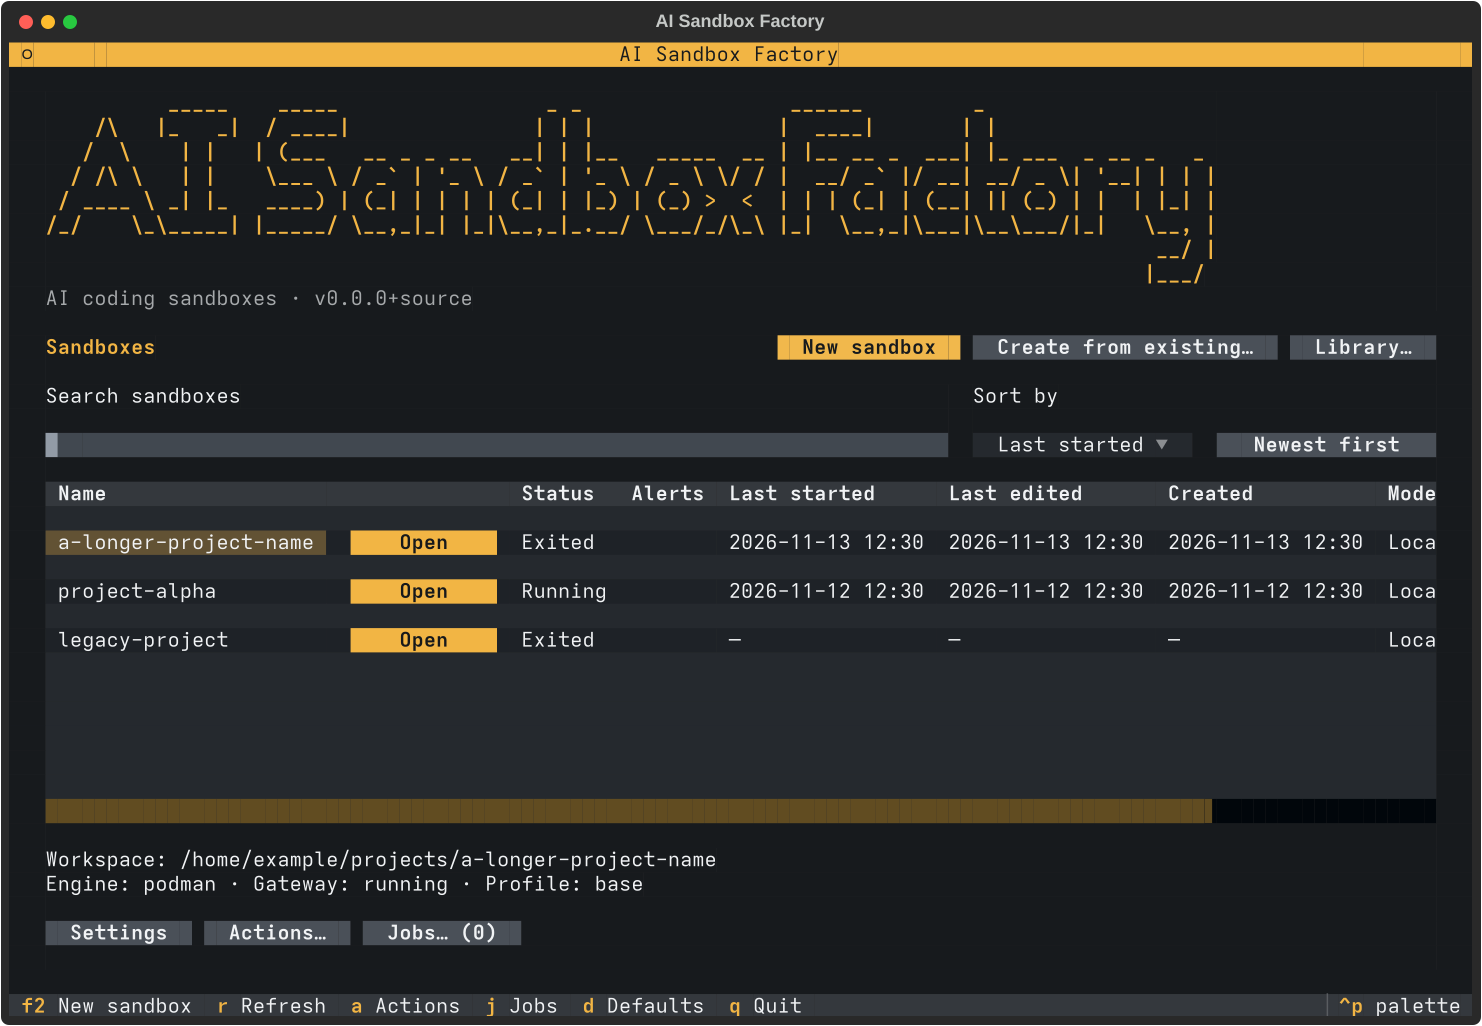
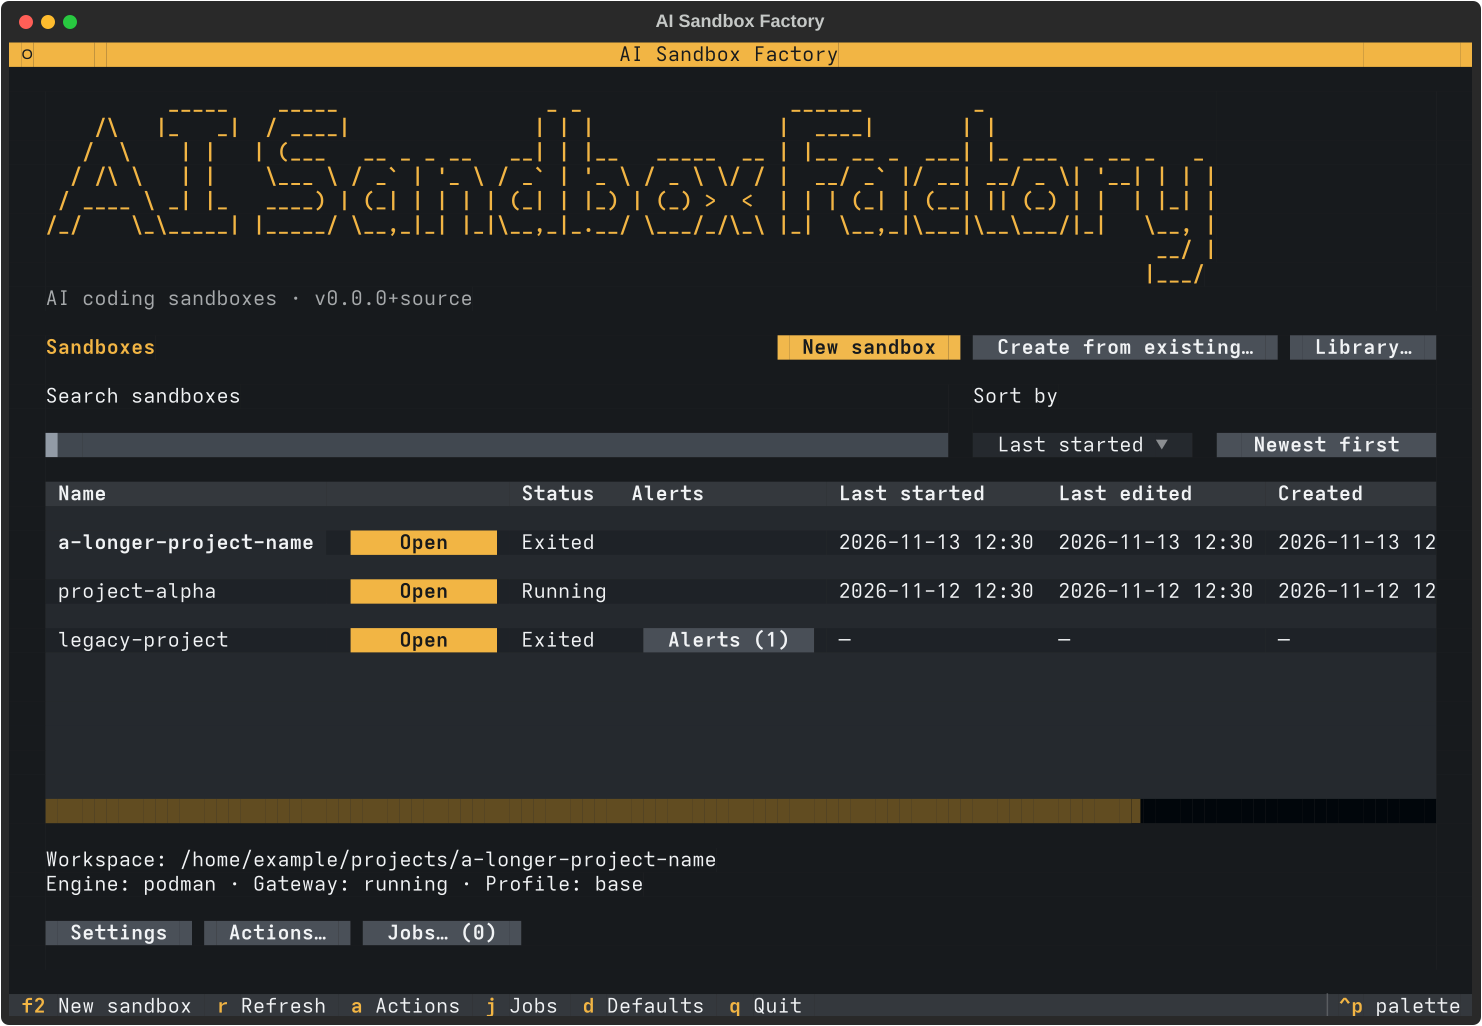
Distinguish dashboard row selection from actions

diff --git a/tests/render_dashboard.py b/tests/render_dashboard.py
@@ -1,27 +1,89 @@
-"""Render dashboard timestamps and sorting at all supported review sizes."""
-import asyncio,copy,os,sys,tempfile
+"""Render dashboard focus, hover, sorting and error states for visual review."""
+import argparse
+import asyncio
+import copy
+import os
 from pathlib import Path
+import sys
+import tempfile
 from unittest.mock import patch
-sys.path[:0]=[str(Path(__file__).resolve().parents[1]),str(Path(__file__).resolve().parent)]
-from ai_sandbox_factory.sandbox_tui import Cockpit,DEFAULT_SETTINGS
-from textual.widgets import Select,Input
+
+sys.path[:0] = [str(Path(__file__).resolve().parents[1]), str(Path(__file__).resolve().parent)]
+from ai_sandbox_factory.sandbox_jobs import Job
+from ai_sandbox_factory.sandbox_tui import Cockpit, DEFAULT_SETTINGS, SandboxTable
+from textual.widgets import Input, Select
 from test_tui import FakeService
-out=Path(sys.argv[1]);out.mkdir(parents=True,exist_ok=True)
-if '--mono' in sys.argv:os.environ['NO_COLOR']='1'
-else:os.environ.pop('NO_COLOR',None)
-os.environ['TEXTUAL_COLOR_SYSTEM']='truecolor'
-async def main(size):
- with tempfile.TemporaryDirectory() as temp,patch('ai_sandbox_factory.sandbox_tui.load_defaults',side_effect=lambda:copy.deepcopy(DEFAULT_SETTINGS)),patch('ai_sandbox_factory.updates.available_update',return_value=None):
-  records=[]
-  for n,name in enumerate(['project-alpha','a-longer-project-name','legacy-project']):
-   records.append(dict(name=name,profile='base',engine='podman',dev='running' if n==0 else 'exited',proxy='running',workspace='/home/example/projects/'+name,config={'network':'allowlist','local_model_ports':'8000'},activity={key:f'2026-11-{12+n}T12:30:00+00:00' if n<2 else None for key in ('created','edited','started')}))
-  app=Cockpit(Path(temp),FakeService(records))
-  async with app.run_test(size=size) as pilot:
-   await pilot.pause();await app.workers.wait_for_complete();await pilot.pause()
-   async def shot(name):
-    await pilot.pause();(out/f'{name}-{size[0]}x{size[1]}.svg').write_text(app.export_screenshot())
-   await shot('dashboard-dates')
-   app.query_one('#sort-field',Select).focus();await pilot.press('enter');await shot('dashboard-sort');await pilot.press('escape')
-   app.query_one('#search',Input).value='missing';await shot('dashboard-empty')
-   app.query_one('#search',Input).value='';app.query_one('#home-error').update('Container engine unavailable; showing saved sandboxes.');await shot('dashboard-error')
-for size in [(80,24),(120,40),(220,50)]:asyncio.run(main(size))
+
+
+async def render(out, size):
+    records = []
+    for index, name in enumerate(('project-alpha', 'a-longer-project-name', 'legacy-project')):
+        date = f'2026-11-{12 + index}T12:30:00+00:00' if index < 2 else None
+        records.append(dict(name=name, profile='base', engine='podman',
+                            dev='running' if index == 0 else 'exited', proxy='running',
+                            workspace='/home/example/projects/' + name,
+                            config={'network': 'allowlist', 'local_model_ports': '8000'},
+                            activity=dict.fromkeys(('created', 'edited', 'started'), date)))
+    records[-1]['ssh_key_state'] = 'locked'
+    with tempfile.TemporaryDirectory() as temp, \
+            patch('ai_sandbox_factory.sandbox_tui.load_defaults', side_effect=lambda: copy.deepcopy(DEFAULT_SETTINGS)), \
+            patch('ai_sandbox_factory.updates.available_update', return_value=None), \
+            patch('ai_sandbox_factory.updates.installed_version', return_value='0.0.0+source'):
+        app = Cockpit(Path(temp), FakeService(records))
+        async with app.run_test(size=size) as pilot:
+            await pilot.pause()
+            await app.workers.wait_for_complete()
+
+            async def shot(name):
+                await pilot.pause()
+                (out / f'dashboard-{name}-{size[0]}x{size[1]}.svg').write_text(app.export_screenshot())
+
+            await shot('dates')
+            table = app.query_one(SandboxTable)
+            table.focus()
+            await shot('name-focus')
+            await pilot.press('right')
+            await shot('open-focus')
+            table.move_cursor(row=table.get_row_index('legacy-project'), column=table.get_cell_coordinate(
+                'legacy-project', 'alerts').column)
+            await shot('alerts-focus')
+            table.move_cursor(row=0, column=0)
+            region = table._get_cell_region(table.get_cell_coordinate('project-alpha', 'name'))
+            await pilot.hover(table, offset=(region.x + 3, region.y))
+            await shot('name-hover')
+            await pilot.hover('#new')
+
+            with_job = Job('project-alpha', 'Update · project-alpha', 'Updating sandbox')
+            app.jobs.append(with_job)
+            app.poll_jobs()
+            job_cell = table.get_cell_coordinate('project-alpha', 'open')
+            table.move_cursor(row=job_cell.row, column=job_cell.column)
+            await shot('job-focus')
+            app.jobs.remove(with_job)
+            with_job.close()
+            app.poll_jobs()
+
+            app.query_one('#sort-field', Select).focus()
+            await pilot.press('enter')
+            await shot('sort')
+            await pilot.press('escape')
+            app.query_one('#search', Input).value = 'missing'
+            await shot('empty')
+            app.query_one('#search', Input).value = ''
+            app.query_one('#home-error').update('Container engine unavailable; showing saved sandboxes.')
+            await shot('error')
+
+
+if __name__ == '__main__':
+    parser = argparse.ArgumentParser(description=__doc__)
+    parser.add_argument('output', type=Path)
+    parser.add_argument('--mono', action='store_true')
+    args = parser.parse_args()
+    args.output.mkdir(parents=True, exist_ok=True)
+    if args.mono:
+        os.environ['NO_COLOR'] = '1'
+    else:
+        os.environ.pop('NO_COLOR', None)
+    os.environ['TEXTUAL_COLOR_SYSTEM'] = 'truecolor'
+    for dimensions in ((80, 24), (120, 40), (220, 50)):
+        asyncio.run(render(args.output, dimensions))

diff --git a/tests/test_tui.py b/tests/test_tui.py
@@ -2156,6 +2156,46 @@ class DashboardActivityTests(unittest.TestCase):
     tearDown = TUITests.tearDown
     ready = TUITests.ready
 
+    async def test_dashboard_focus_cues_are_distinct_from_action_fill(self):
+        app = Cockpit(self.root, FakeService(self.records))
+        async with app.run_test(size=(80, 24)) as pilot:
+            await self.ready(app, pilot)
+            table = app.query_one(SandboxTable)
+
+            def cell_style(name, column, label):
+                region = table._get_cell_region(table.get_cell_coordinate(name, column))
+                line = table.render_line(region.y).crop(region.x, region.right)
+                return next(segment.style for segment in line if segment.text.strip() == label)
+
+            selected = app.selected_name()
+            unfocused_name = cell_style(selected, 'name', selected)
+            self.assertTrue(unfocused_name.bold)
+            self.assertFalse(unfocused_name.underline)
+
+            table.focus()
+            await pilot.pause()
+            name = cell_style(selected, 'name', selected)
+            action = cell_style(selected, 'open', 'Open')
+            self.assertNotEqual(name.bgcolor, action.bgcolor)
+            self.assertNotEqual(unfocused_name.bgcolor, action.bgcolor)
+            self.assertTrue(name.underline)
+            self.assertFalse(action.underline)
+
+            await pilot.press('right')
+            focused_action = cell_style(selected, 'open', 'Open')
+            self.assertEqual(focused_action.bgcolor, action.bgcolor)
+            self.assertTrue(focused_action.underline)
+            self.assertTrue(focused_action.meta['sandbox_action'])
+
+            other = 'beta' if selected == 'alpha' else 'alpha'
+            resting = cell_style(other, 'name', other)
+            region = table._get_cell_region(table.get_cell_coordinate(other, 'name'))
+            await pilot.hover(table, offset=(region.x + 2, region.y))
+            hovered = cell_style(other, 'name', other)
+            self.assertNotEqual(hovered.bgcolor, resting.bgcolor)
+            self.assertFalse(hovered.underline)
+            self.assertEqual(app.selected_name(), selected)
+
     async def test_dashboard_filters_share_a_single_control_row(self):
         from textual.widgets import Select
         for size in ((80, 24), (120, 40), (220, 50)):

diff --git a/ai_sandbox_factory/sandbox_tui.py b/ai_sandbox_factory/sandbox_tui.py
@@ -4194,7 +4194,9 @@ class Cockpit(App):
     #sandboxes > .datatable--even-row, #sandboxes > .datatable--odd-row {
         background: $surface-darken-1 40%;
     }
-    #sandboxes:focus > .datatable--cursor { background: $primary 35%; color: $foreground; }
+    #sandboxes > .datatable--hover { background: $panel; }
+    #sandboxes > .datatable--cursor { background: transparent; color: $foreground; text-style: bold; }
+    #sandboxes:focus > .datatable--cursor { background: transparent; text-style: bold underline; }
     #details { height: auto; min-height: 3; padding: 1 0; text-wrap: nowrap; text-overflow: ellipsis; }
     #ssh-key-feedback { height: auto; }
     #ssh-duration-error, #ssh-key-feedback.error, SSHDestinationFields Feedback, CreateSSHFields Feedback { color: #ef9a91; }

diff --git a/TESTING.md b/TESTING.md
@@ -1451,9 +1451,11 @@ instructions for other clients. Render those states with
 times, no-op saves, successful starts, stale-runtime recovery, sorting, missing
 dates, filtering and selection preservation. Each sandbox and its actions occupy
 one line. One blank line follows the header and separates adjacent entries.
-Clicking a gap must leave the
-selection unchanged. Check that every sandbox is reachable by keyboard. Render `tests/render_dashboard.py`
-at its three built-in sizes, in colour and with `--mono`.
+Clicking a gap must leave the selection unchanged. Check that the underline
+marks the focused data or action cell during keyboard navigation.
+Render `tests/render_dashboard.py` at its three built-in sizes, in colour and
+with `--mono`. The snapshots cover selection while the table is unfocused,
+keyboard focus, and mouse hover.
 
 `test_tui.py` covers access to row actions, submenu navigation, creation retry,
 and cancellation. `test_sandbox_jobs.py`, `test_chat_jobs.py`,

diff --git a/README.md b/README.md
@@ -82,7 +82,7 @@ agent. [Copy a chat between agents](docs/usage.md#continue-a-chat-with-another-a
 Update Factory with **Upgrade now** or `pipx upgrade ai-sandbox-factory`.
 To update a sandbox, use **Actions… → Update sources and recreate…**. This
 builds the replacement first, then restarts the sandbox with its workspace
-and saved chats intact. **Show Alerts** offers **Update to FrostPi…** for older
+and saved chats intact. **Alerts** offers **Update to FrostPi…** for older
 Pendant sandboxes. [Sandbox updates](docs/usage.md#update-factory-and-sandboxes) · [Archived Pendant branch](https://github.com/kyuz0/ai-sandbox-factory/tree/pendant)
 
 ## Profiles and providers

diff --git a/docs/repository-access.md b/docs/repository-access.md
@@ -34,7 +34,7 @@ GitHub requires a different deploy key for each repository.
 
 If you already have a repository key, use **Import and unlock** instead of
 Generate. Keep the source key outside every folder mounted into the sandbox.
-If the dashboard shows an alert, choose **Show Alerts** in the sandbox row. Choose
+If the dashboard shows an alert, choose **Alerts** in the sandbox row. Choose
 **Unlock existing key** when the key is locked. **Keep SSH key unlocked for**
 defaults to `8h`. Enter a different duration, such as `2d`, before importing or
 unlocking. The key is available immediately. Restarting the SSH service can lock

diff --git a/docs/usage.md b/docs/usage.md
@@ -168,7 +168,7 @@ Updated images use Debian 13 and Python 3.13. If your project contains a virtual
 environment created with Python 3.11, recreate that environment from your project's
 dependency files after updating the sandbox. Your project files and saved chats remain.
 
-For a sandbox that still uses Pendant, open **Show Alerts → Update to FrostPi…**
+For a sandbox that still uses Pendant, open **Alerts → Update to FrostPi…**
 when you’re ready to switch.
 
 ### Upgrade from Pi Sandbox Factory

diff --git a/docs/ssh.md b/docs/ssh.md
@@ -58,7 +58,7 @@ key file and choose **Import and unlock**.
 
 Keys unlock for eight hours by default. Set **Keep SSH key unlocked for** before
 importing or unlocking a key to use a different duration. When the dashboard shows
-a locked-key alert, open **Show Alerts → Unlock existing key**. Restarting the SSH
+a locked-key alert, open **Alerts → Unlock existing key**. Restarting the SSH
 companion can lock an encrypted key early. Unencrypted keys load automatically
 when the companion starts.
 
